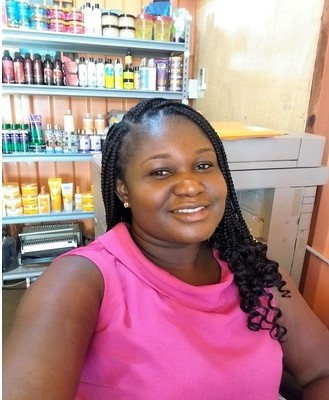
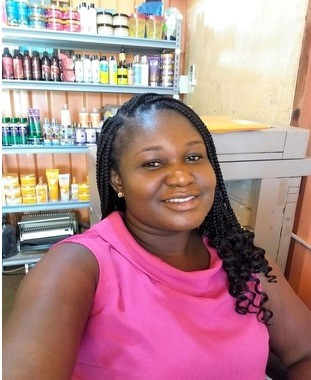
editted

diff --git a/src/style.css b/src/style.css
@@ -58,18 +58,17 @@ h4{
 .aboutus{
     display: flex;
    justify-content: space-between; 
-    align-items: flex-start;
+   align-items: flex-start;
 }
 .aboutus_container{
     display: flex;
-    width: 80%;
-    border-radius: 40px;
+    width: 100%;
+    border-radius: 70px;
     justify-content: left;
     padding-right: 20%; text-align: justify;
     border: 3px solid whitesmoke;
-    margin-bottom: 2%;
-    padding: 20px; border: 1px solid #ccc; margin: 20px 0; 
-}
+    padding: 10px; border: 1px solid #ccc; margin: 2% 0; 
+  }
 .image_container{
     flex: 1;
     justify-content: space-between;
@@ -77,6 +76,7 @@ h4{
 .text_container{
     flex: 2;
     padding-right: 20px;
+    justify-content: center;
 }
 p {
     font-family: Verdana, Geneva, Tahoma, sans-serif;
@@ -92,17 +92,17 @@ p {
 .Akua_images{
     display: flex;
     flex-wrap: wrap;
-    background-color: rgb(248, 236, 214);   
+    background-color: rgb(248, 236, 214);
 }
 h2{
     color: darkred;
     line-height: 10%;
     margin-right: auto;
-    text-align: center;
+    text-align: left;
 } 
-.Akua { background-color: #f8f8f8; padding: 20px; 
+.Akua{ background-color: #f8f8f8; padding: 20px; 
 } 
-.Akua nav a { margin-right: 15px; 
+.Akua nav a{ margin-right: 15px; 
 }
 .Contact{
     display: flex;
@@ -112,6 +112,7 @@ h2{
   justify-content: space-between;
   font-family: Verdana, Geneva, Tahoma, sans-serif;
   color: darkred;
+ justify-content: center;
 }
 .organics{
     display: flex;
@@ -122,5 +123,4 @@ h2{
 }
 .back2{
     float: left;
-    padding-top: 1%;
 }

diff --git a/index.html b/index.html
@@ -54,7 +54,7 @@
                 <img class="img_Akua" src="images/Akua.jpg" alt="About Us Image">
             </div>
             <div class="text_container">
-                <h2><a href="#home">About Us</a></h2>
+                <h2><a href="index.html">About Us</a></h2>
                 <p>We are Peniel Glorious! <br> <br>
                     <b>Our Vision</b> <br>
                     To become your preferred store for a wide range of products, 
@@ -75,23 +75,23 @@
             </div>
         </div>
     </div>
-    <h2><a href="#contact">Peniel Glorious Business Services</a></h2>
+    <h2 style="margin: 5%;"><a href="index.html">Peniel Glorious Business Services</a></h2>
     <div id="contact" class="Contact">
             <div class="Akua_images">
     <div class="con_ind">
-        <img src="images/Akua.jpg" alt="">
+        <img src="images/Akua6.jpg" alt="">
         <p>fosua02@gmail.com</p>
     </div>
     <div class="con_ind">
-        <img src="images/Akua.jpg" alt="">
+        <img src="images/Akua6.jpg" alt="">
         <p>fosua02@gmail.com</p>
     </div>
     <div class="con_ind">
-        <img src="images/Akua.jpg" alt="">
+        <img src="images/Akua6.jpg" alt="">
         <p>fosua02@gmail.com</p>
     </div>
     <div class="con_ind">
-        <img src="images/Akua.jpg" alt="">
+        <img src="images/Akua6.jpg" alt="">
         <p>fosua02@gmail.com</p>
     </div>
 </div>
